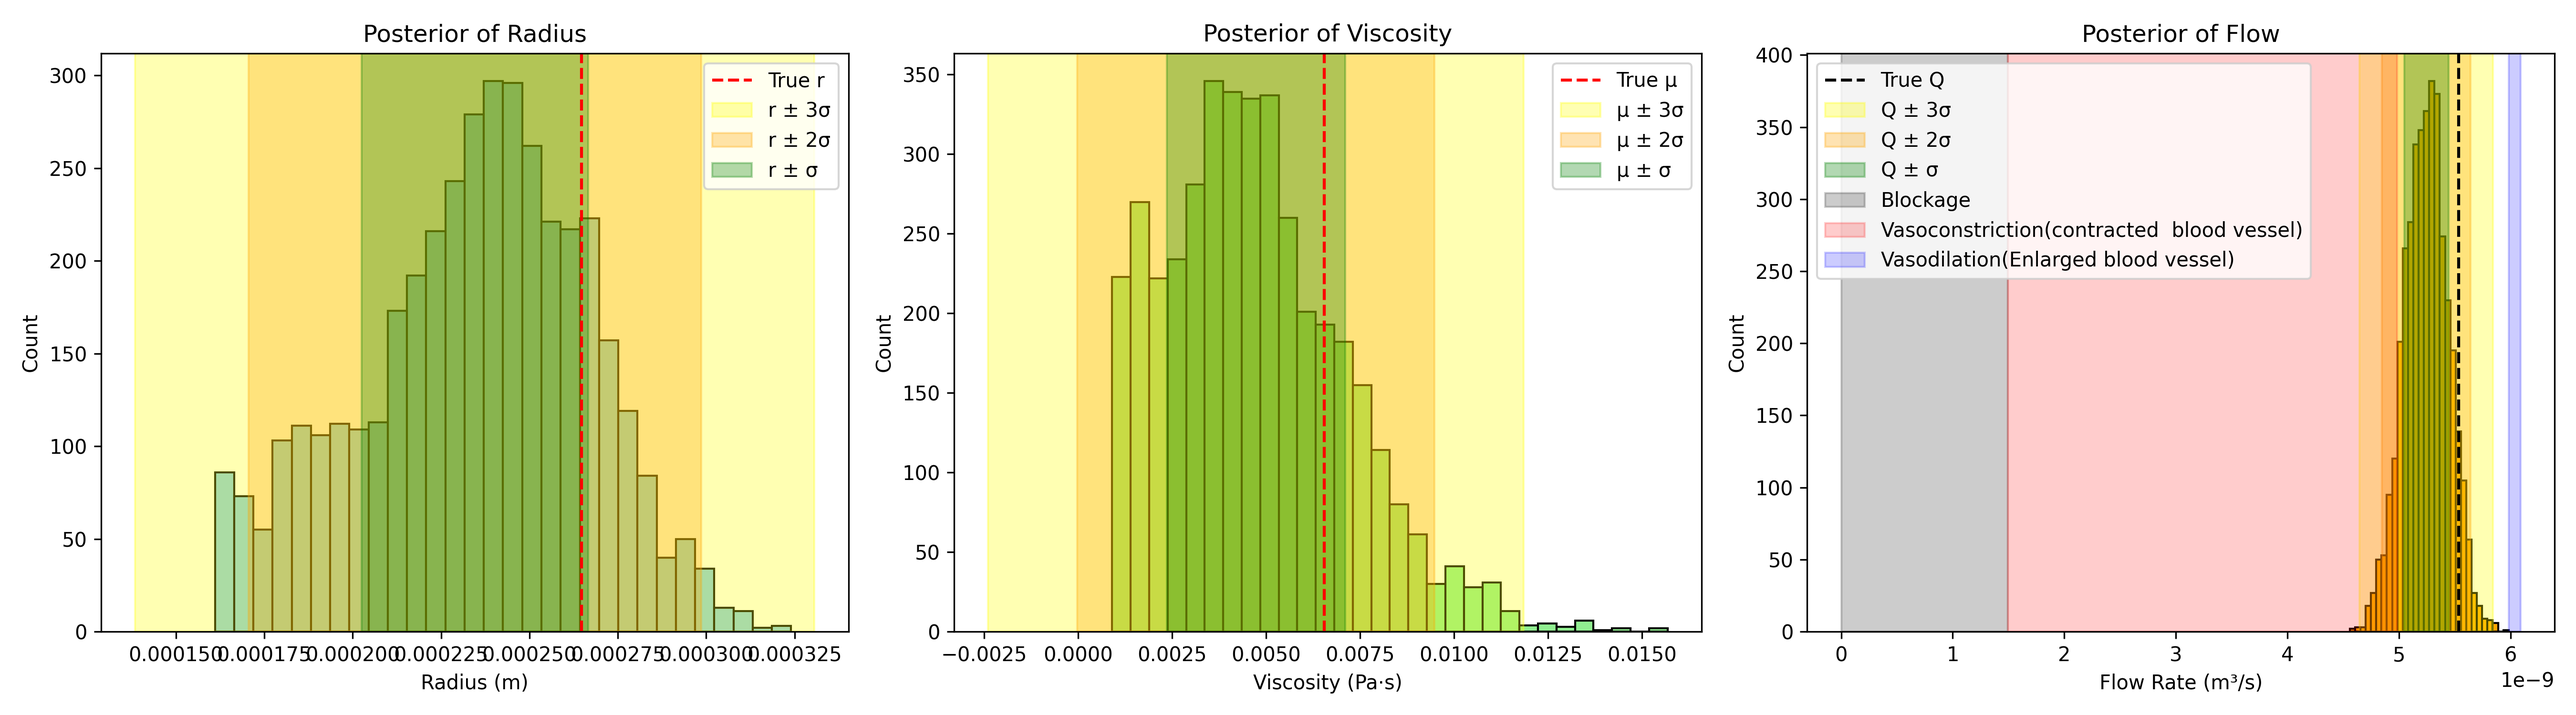
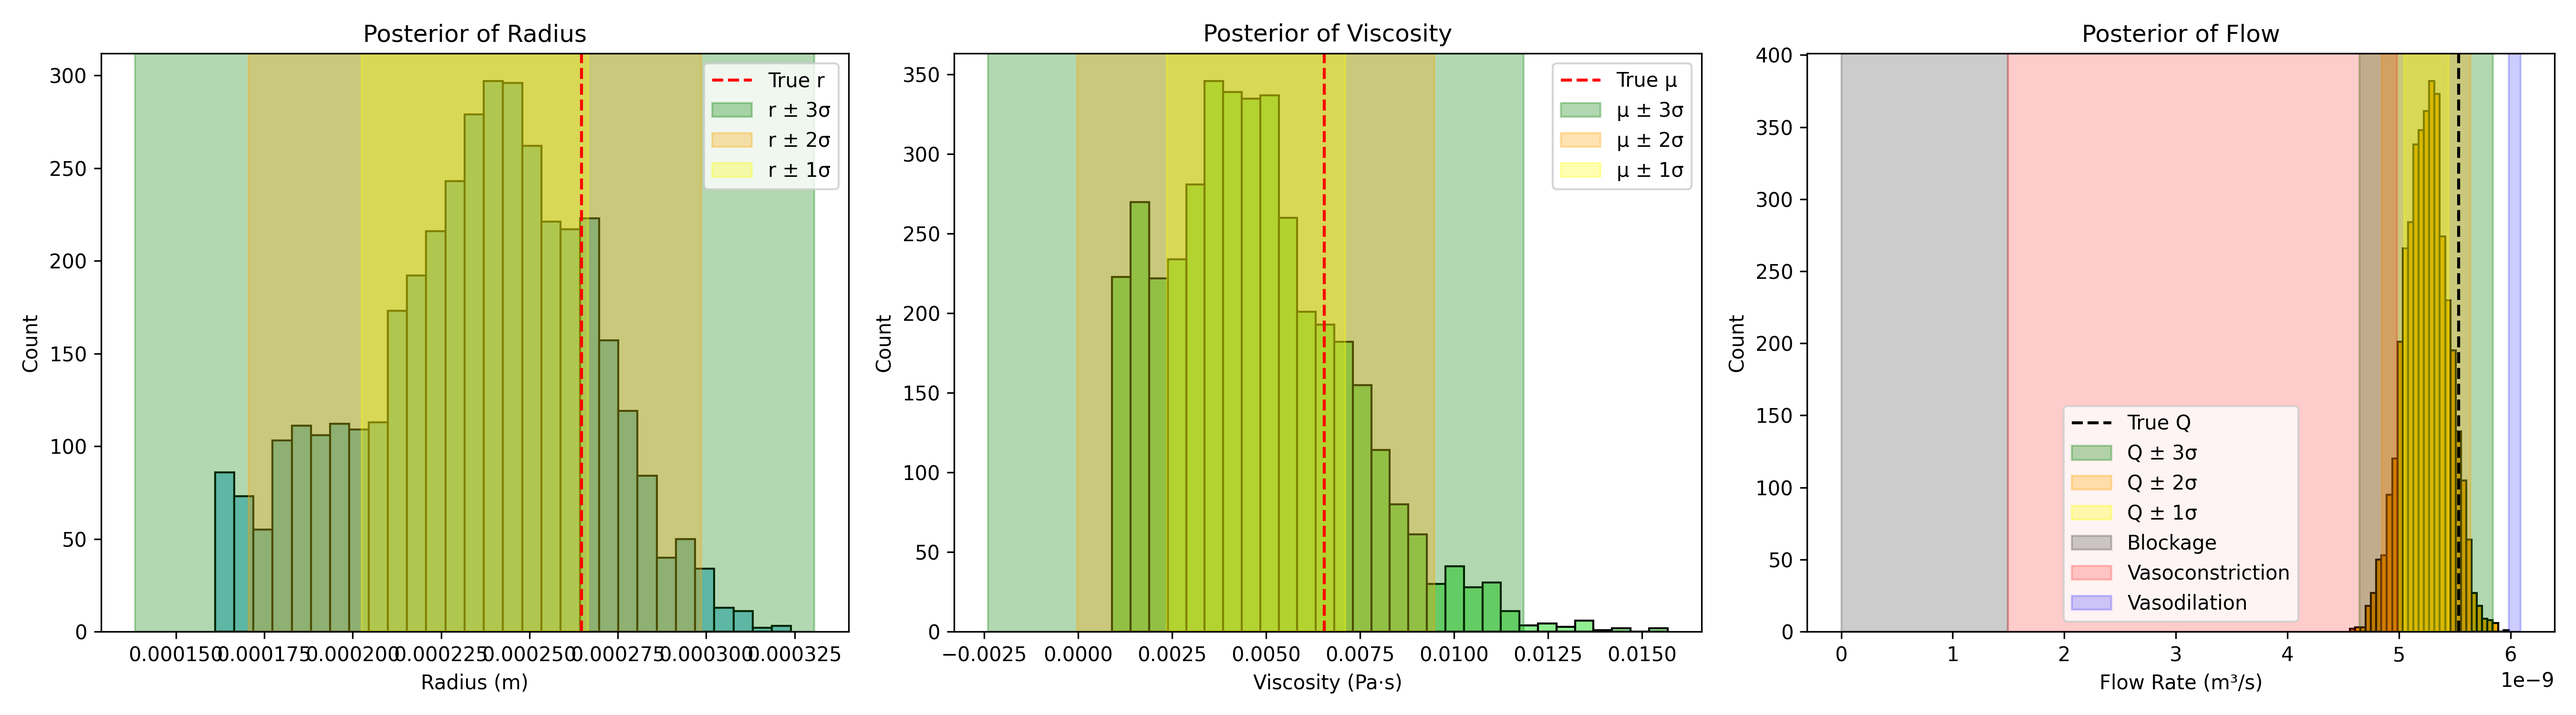
Creation of utils file to seperate visualization and csv handling functions

diff --git a/blood_flow_anlaysis_src_code.py b/blood_flow_anlaysis_src_code.py
@@ -5,7 +5,7 @@ import matplotlib.pyplot as plt
 from collections import Counter
 import os
 import pandas as pd
-
+from utils import save_results_to_csv, visualize_results
 # -----------------------
 # Sampled Parameters with Increased Dispersion
 # -----------------------
@@ -76,111 +76,9 @@ def analyze_posteriors(trace, Q_true):
     )
     return posterior_r, posterior_mu, posterior_Q, alerts
 
-def save_results_to_csv(posterior_r, posterior_mu, posterior_Q, alerts, folder_path):
-    """Save posterior results"""
-    df = pd.DataFrame({
-        "posterior_r": posterior_r,
-        "posterior_mu": posterior_mu,
-        "posterior_Q": posterior_Q,
-        "alert": alerts
-    })
-    os.makedirs(folder_path, exist_ok=True)
-    df.to_csv(os.path.join(folder_path, "posterior_results.csv"), index=False)
-
-def visualize_results(posterior_r, posterior_mu, posterior_Q, Q_true, alerts, folder_path):
-    """Plot posterior histograms and flow states with sigma binning for r, mu, and Q"""
-    alert_counts = Counter(alerts)
-    normal_lower = Q_true * 0.9
-    normal_upper = Q_true * 1.1
-
-    # ---------------------------
-    # Radius Stats
-    # ----------------------------
-    r_mean = np.mean(posterior_r)
-    r_std = np.std(posterior_r)
-    r_minus_3sigma, r_plus_3sigma = r_mean - 3 * r_std, r_mean + 3 * r_std
-    r_minus_2sigma, r_plus_2sigma = r_mean - 2 * r_std, r_mean + 2 * r_std
-    r_minus_1sigma, r_plus_1sigma = r_mean - r_std, r_mean + r_std
-
-    # ----------------------------
-    # Viscosity Stats
-    # ----------------------------
-    mu_mean = np.mean(posterior_mu)
-    mu_std = np.std(posterior_mu)
-    mu_minus_3sigma, mu_plus_3sigma = mu_mean - 3 * mu_std, mu_mean + 3 * mu_std
-    mu_minus_2sigma, mu_plus_2sigma = mu_mean - 2 * mu_std, mu_mean + 2 * mu_std
-    mu_minus_1sigma, mu_plus_1sigma = mu_mean - mu_std, mu_mean + mu_std
-
-    # ----------------------------
-    # Flow Stats
-    # ----------------------------
-    Q_mean = np.mean(posterior_Q)
-    Q_std = np.std(posterior_Q)
-    Q_minus_3sigma, Q_plus_3sigma = Q_mean - 3 * Q_std, Q_mean + 3 * Q_std
-    Q_minus_2sigma, Q_plus_2sigma = Q_mean - 2 * Q_std, Q_mean + 2 * Q_std
-    Q_minus_1sigma, Q_plus_1sigma = Q_mean - Q_std, Q_mean + Q_std
-
-    plt.figure(figsize=(18, 5))
-
-    # ----------------------------
-    # Radius Plot (r)
-    # ----------------------------
-    plt.subplot(1, 3, 1)
-    plt.hist(posterior_r, bins=30, color='skyblue', edgecolor='black')
-    plt.axvline(true_r, color='red', linestyle='--', label='True r')
-    plt.axvspan(r_minus_3sigma, r_plus_3sigma, color='yellow', alpha=0.3, label='r ± 3σ')
-    plt.axvspan(r_minus_2sigma, r_plus_2sigma, color='orange', alpha=0.3, label='r ± 2σ')
-    plt.axvspan(r_minus_1sigma, r_plus_1sigma, color='green', alpha=0.3, label='r ± σ')
-    plt.title("Posterior of Radius")
-    plt.xlabel("Radius (m)")
-    plt.ylabel("Count")
-    plt.legend()
-
-    # ----------------------------
-    # Viscosity Plot (mu)
-    # ----------------------------
-    plt.subplot(1, 3, 2)
-    plt.hist(posterior_mu, bins=30, color='lightgreen', edgecolor='black')
-    plt.axvline(true_mu, color='red', linestyle='--', label='True μ')
-    plt.axvspan(mu_minus_3sigma, mu_plus_3sigma, color='yellow', alpha=0.3, label='μ ± 3σ')
-    plt.axvspan(mu_minus_2sigma, mu_plus_2sigma, color='orange', alpha=0.3, label='μ ± 2σ')
-    plt.axvspan(mu_minus_1sigma, mu_plus_1sigma, color='green', alpha=0.3, label='μ ± σ')
-    plt.title("Posterior of Viscosity")
-    plt.xlabel("Viscosity (Pa·s)")
-    plt.ylabel("Count")
-    plt.legend()
-
-    # ----------------------------
-    # Flow Plot (Q)
-    # ----------------------------
-    plt.subplot(1, 3, 3)
-    plt.hist(posterior_Q, bins=30, color='orange', edgecolor='black')
-    plt.axvline(Q_true, color='black', linestyle='--', label='True Q')
-    plt.axvspan(Q_minus_3sigma, Q_plus_3sigma, color='yellow', alpha=0.3, label='Q ± 3σ')
-    plt.axvspan(Q_minus_2sigma, Q_plus_2sigma, color='orange', alpha=0.3, label='Q ± 2σ')
-    plt.axvspan(Q_minus_1sigma, Q_plus_1sigma, color='green', alpha=0.3, label='Q ± σ')
-    plt.axvspan(0, normal_lower * 0.3, color='black', alpha=0.2, label='Blockage')
-    plt.axvspan(normal_lower * 0.3, normal_lower, color='red', alpha=0.2, label='Vasoconstriction(contracted  blood vessel)')
-    plt.axvspan(normal_upper, np.max(posterior_Q), color='blue', alpha=0.2, label='Vasodilation(Enlarged blood vessel)')
-    plt.title("Posterior of Flow")
-    plt.xlabel("Flow Rate (m³/s)")
-    plt.ylabel("Count")
-    plt.legend()
-
-    plt.tight_layout()
-    os.makedirs(folder_path, exist_ok=True)
-    plt.savefig(os.path.join(folder_path, "blood_flow_analysis.png"), dpi=300)
-    plt.show()
-
-    print("\nFlow State Summary:")
-    for state, count in alert_counts.items():
-        percent = (count / len(alerts)) * 100
-        print(f"  {state}: {count} samples ({percent:.1f}%)")
 
 
-# -----------------------
-# Execution
-# -----------------------
+
 if __name__ == "__main__":
     folder_path = "blood_flow_analysis_results"
     Q_true = poiseuille_flow_vec(true_r, true_mu)
@@ -190,4 +88,6 @@ if __name__ == "__main__":
     posterior_r, posterior_mu, posterior_Q, alerts = analyze_posteriors(trace, Q_true)
 
     save_results_to_csv(posterior_r, posterior_mu, posterior_Q, alerts, folder_path)
-    visualize_results(posterior_r, posterior_mu, posterior_Q, Q_true, alerts, folder_path)
+    #visualize_results(posterior_r, posterior_mu, posterior_Q, Q_true, alerts, folder_path)
+    visualize_results(posterior_r, posterior_mu, posterior_Q, Q_true, true_r, true_mu, alerts, folder_path)
+

diff --git a/utils.py b/utils.py
@@ -1,0 +1,83 @@
+# utils.py
+
+import os
+import pandas as pd
+import matplotlib.pyplot as plt
+from collections import Counter
+import numpy as np
+
+def save_results_to_csv(posterior_r, posterior_mu, posterior_Q, alerts, folder_path):
+    """Save posterior results"""
+    df = pd.DataFrame({
+        "posterior_r": posterior_r,
+        "posterior_mu": posterior_mu,
+        "posterior_Q": posterior_Q,
+        "alert": alerts
+    })
+    os.makedirs(folder_path, exist_ok=True)
+    df.to_csv(os.path.join(folder_path, "posterior_results.csv"), index=False)
+
+def visualize_results(posterior_r, posterior_mu, posterior_Q, Q_true, true_r, true_mu, alerts, folder_path):
+    """Plot posterior histograms and flow states"""
+    alert_counts = Counter(alerts)
+    normal_lower = Q_true * 0.9
+    normal_upper = Q_true * 1.1
+
+    # ------------------ Stats for plotting ------------------ #
+    def stats(x): return np.mean(x), np.std(x)
+    r_mean, r_std = stats(posterior_r)
+    mu_mean, mu_std = stats(posterior_mu)
+    Q_mean, Q_std = stats(posterior_Q)
+
+    def sigma_bounds(mean, std): return [(mean - i*std, mean + i*std) for i in [1, 2, 3]]
+    r_bounds = sigma_bounds(r_mean, r_std)
+    mu_bounds = sigma_bounds(mu_mean, mu_std)
+    Q_bounds = sigma_bounds(Q_mean, Q_std)
+
+    plt.figure(figsize=(18, 5))
+
+    # ------------------ Radius ------------------ #
+    plt.subplot(1, 3, 1)
+    plt.hist(posterior_r, bins=30, color='skyblue', edgecolor='black')
+    plt.axvline(true_r, color='red', linestyle='--', label='True r')
+    for i, (l, h) in enumerate(r_bounds[::-1], start=1):
+        plt.axvspan(l, h, alpha=0.3, label=f'r ± {4-i}σ', color=['yellow', 'orange', 'green'][3-i])
+    plt.title("Posterior of Radius")
+    plt.xlabel("Radius (m)")
+    plt.ylabel("Count")
+    plt.legend()
+
+    # ------------------ Viscosity ------------------ #
+    plt.subplot(1, 3, 2)
+    plt.hist(posterior_mu, bins=30, color='lightgreen', edgecolor='black')
+    plt.axvline(true_mu, color='red', linestyle='--', label='True μ')
+    for i, (l, h) in enumerate(mu_bounds[::-1], start=1):
+        plt.axvspan(l, h, alpha=0.3, label=f'μ ± {4-i}σ', color=['yellow', 'orange', 'green'][3-i])
+    plt.title("Posterior of Viscosity")
+    plt.xlabel("Viscosity (Pa·s)")
+    plt.ylabel("Count")
+    plt.legend()
+
+    # ------------------ Flow ------------------ #
+    plt.subplot(1, 3, 3)
+    plt.hist(posterior_Q, bins=30, color='orange', edgecolor='black')
+    plt.axvline(Q_true, color='black', linestyle='--', label='True Q')
+    for i, (l, h) in enumerate(Q_bounds[::-1], start=1):
+        plt.axvspan(l, h, alpha=0.3, label=f'Q ± {4-i}σ', color=['yellow', 'orange', 'green'][3-i])
+    plt.axvspan(0, normal_lower * 0.3, color='black', alpha=0.2, label='Blockage')
+    plt.axvspan(normal_lower * 0.3, normal_lower, color='red', alpha=0.2, label='Vasoconstriction')
+    plt.axvspan(normal_upper, np.max(posterior_Q), color='blue', alpha=0.2, label='Vasodilation')
+    plt.title("Posterior of Flow")
+    plt.xlabel("Flow Rate (m³/s)")
+    plt.ylabel("Count")
+    plt.legend()
+
+    plt.tight_layout()
+    os.makedirs(folder_path, exist_ok=True)
+    plt.savefig(os.path.join(folder_path, "blood_flow_analysis.png"), dpi=300)
+    plt.show()
+
+    print("\nFlow State Summary:")
+    for state, count in alert_counts.items():
+        percent = (count / len(alerts)) * 100
+        print(f"  {state}: {count} samples ({percent:.1f}%)")
